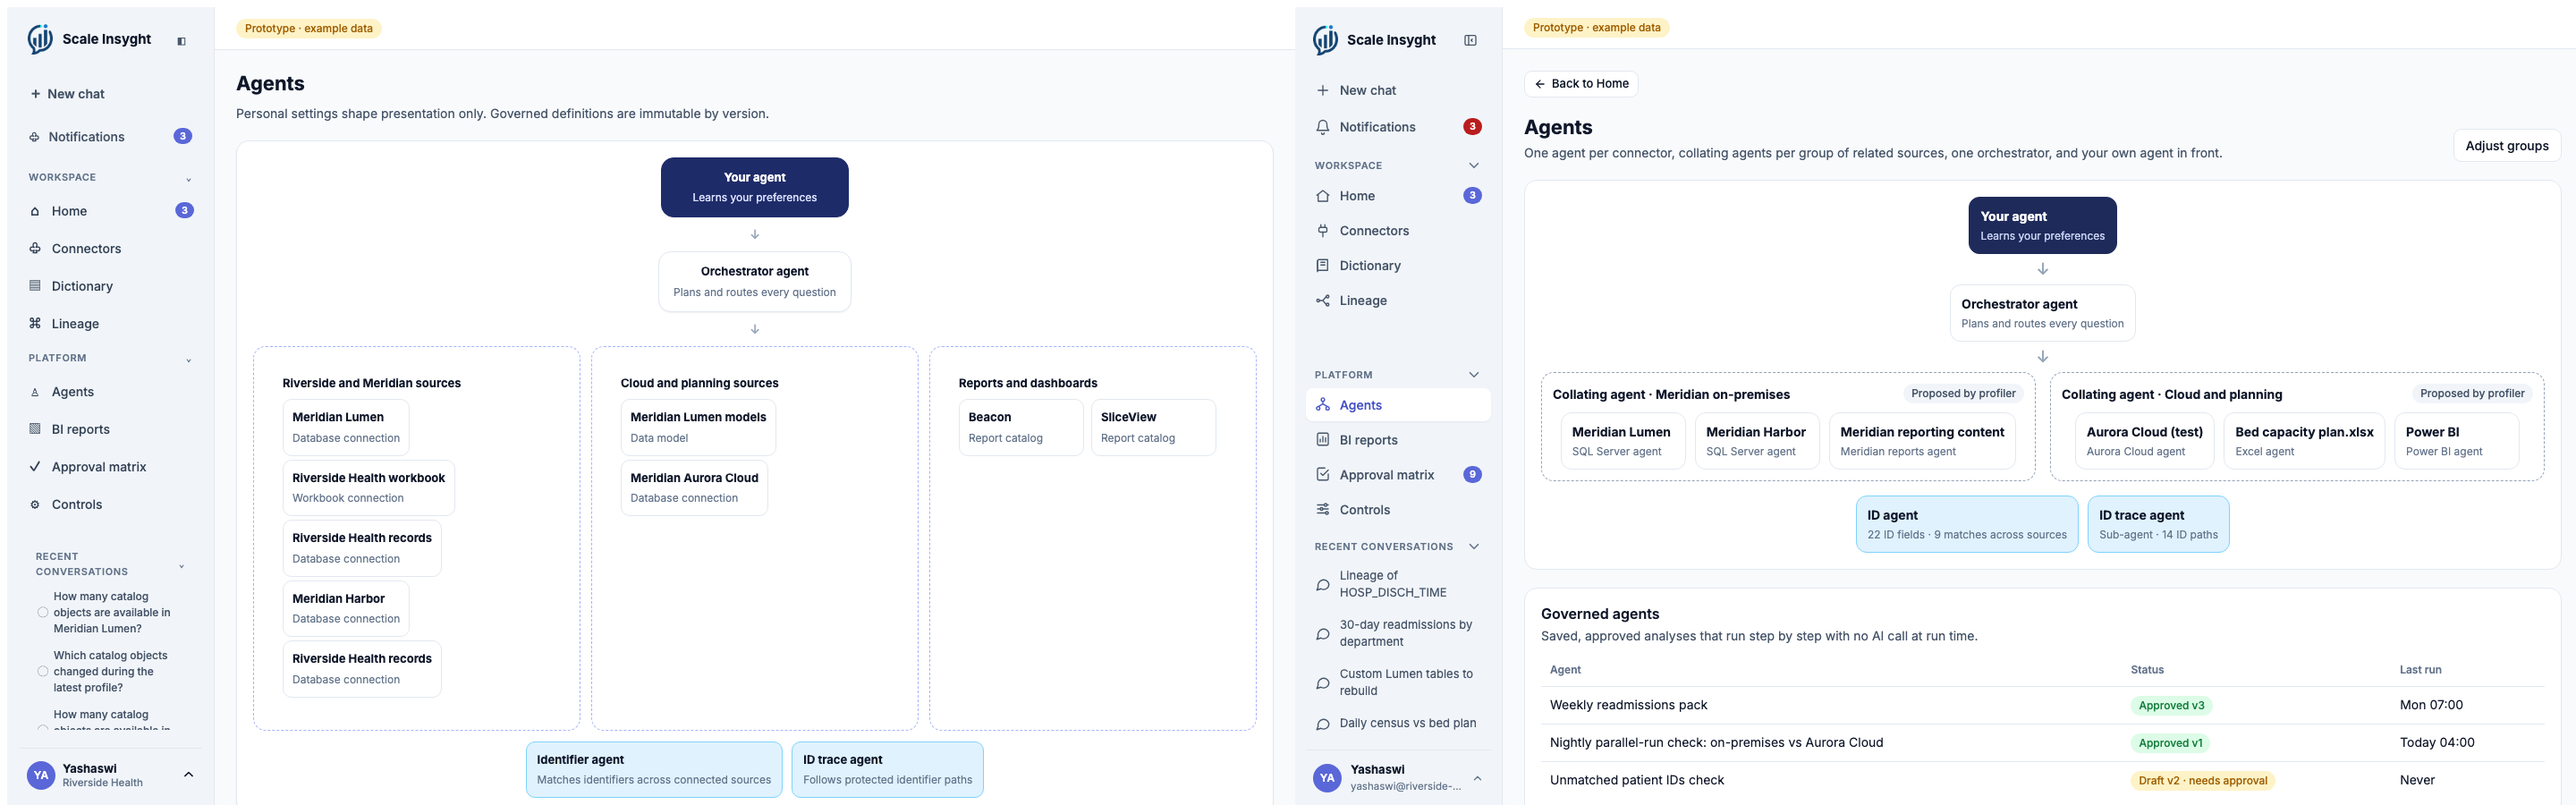
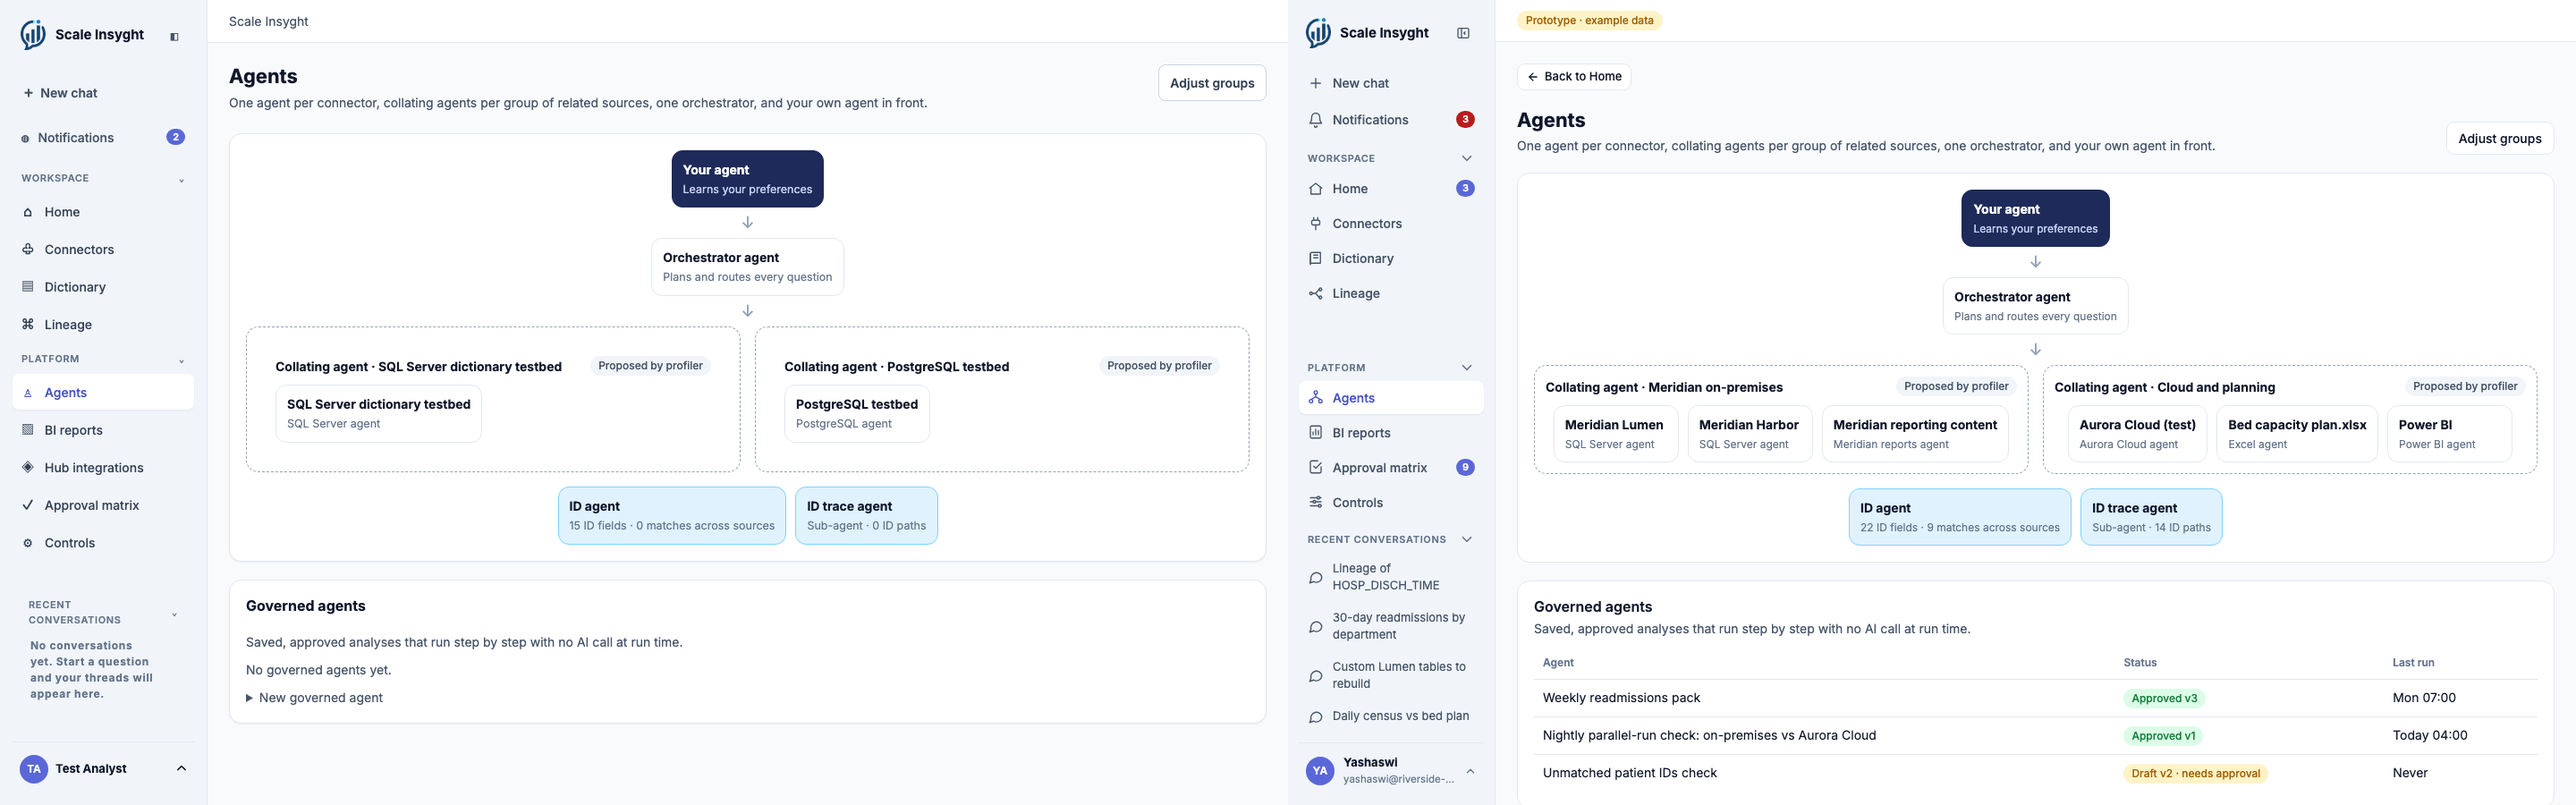
Agents: S13 walkthrough on the testbeds, screen pair with the prototype; phase 5 E2E follows My agent's empty state

diff --git a/tests/e2e/real-product-s13-agents.spec.ts b/tests/e2e/real-product-s13-agents.spec.ts
@@ -1,0 +1,97 @@
+import { test, expect, type Page } from '@playwright/test';
+import { randomUUID } from 'node:crypto';
+import { mkdirSync } from 'node:fs';
+import { pathToFileURL } from 'node:url';
+import { resolve } from 'node:path';
+import 'dotenv/config';
+import { Pool } from 'pg';
+import { withTenant } from '@scaleinsyght/db';
+import { createTenant } from '../../scripts/tenant-create.js';
+import { activateAndWait } from '../support/e2e-profile.js';
+
+// S13: the Agents screen on real connectors (CLAUDE.md 10.2, prototype V.agents). Every agent shown comes from the
+// registry: a connector agent per active connection, one collating agent per source group (decision 20: one group per
+// source until a person adjusts them), the ID agent's counts from the graph, and the governed agents table.
+const platformUrl = new URL(process.env.DATABASE_URL_MIGRATE ?? '');
+platformUrl.pathname = `/${process.env.SI_TEST_DATABASE ?? 'si_test'}`;
+const pool = new Pool({ connectionString: platformUrl.toString() });
+const postgres = new URL(process.env.DATABASE_URL_TESTBED ?? '');
+if (!postgres.hostname || !process.env.SQLSERVER_TESTBED_PASSWORD) throw new Error('The PostgreSQL and SQL Server testbeds are required; run pnpm testbed:up (it includes pnpm testbed:dictionary).');
+const screen = (name: string) => `docs/acceptance/s13/${name}.png`;
+
+async function connect(page: Page, data: Record<string, unknown>): Promise<string> {
+  const draft = await page.request.post('/api/connections', { data }); expect(draft.status()).toBe(201);
+  const { connectionId } = await draft.json() as { connectionId: string };
+  expect((await page.request.post(`/api/connections/${connectionId}/test`)).ok()).toBeTruthy();
+  await activateAndWait(page, connectionId);
+  return connectionId;
+}
+const tiers = (page: Page) => page.getByRole('article', { name: 'How the agents are arranged' });
+const group = (page: Page, members: string) => tiers(page).getByRole('region', { name: `Collating agent for ${members}` });
+
+test.afterAll(async () => { await pool.end(); });
+
+test('s13_agents_screen_shows_the_registry_and_adjusting_groups_makes_a_new_group_version', async ({ page, browser }) => {
+  test.setTimeout(300_000);
+  const tenantId = `agents-${randomUUID()}`; const email = `analyst@${tenantId}.test.invalid`; const password = 'agents-walkthrough-password-2026';
+  await createTenant(pool, { tenantId, name: 'Agents workspace', displayName: 'Test Analyst', email, password });
+  await page.setViewportSize({ width: 1440, height: 900 });
+  await page.goto(`/login?tenant=${tenantId}`); await page.getByLabel('Email').fill(email); await page.getByLabel('Password').fill(password); await page.getByRole('button', { name: 'Sign in', exact: true }).click();
+  await expect(page.getByRole('heading', { name: /^Good (morning|afternoon|evening), Test Analyst$/ })).toBeVisible();
+
+  // Before any connector: the fixed tiers, no connector agents and no governed agents.
+  await page.getByRole('link', { name: /Agents/ }).click();
+  await expect(page.getByRole('heading', { name: 'Agents', exact: true })).toBeVisible();
+  await expect(tiers(page)).toContainText('Your agent');
+  await expect(tiers(page)).toContainText('Orchestrator agent');
+  await expect(tiers(page)).toContainText('No connector agents yet.');
+  await expect(page.getByText('No governed agents yet.')).toBeVisible();
+  await expect(page.getByRole('button', { name: 'Adjust groups' })).toHaveCount(0);
+
+  const pg = await connect(page, { connectorType: 'postgres', displayName: 'PostgreSQL testbed', credential: { host: postgres.hostname, port: Number(postgres.port || 5432), database: postgres.pathname.slice(1), username: decodeURIComponent(postgres.username), password: decodeURIComponent(postgres.password), sslMode: 'disable' } });
+  const sql = await connect(page, { connectorType: 'sql_server', displayName: 'SQL Server dictionary testbed', credential: { host: process.env.SQLSERVER_TESTBED_HOST, port: Number(process.env.SQLSERVER_TESTBED_PORT), database: 'si_testbed_dictionary', username: process.env.SQLSERVER_TESTBED_USERNAME, password: process.env.SQLSERVER_TESTBED_PASSWORD, trustServerCertificate: true } });
+
+  // One collating agent per source (decision 20), each holding that connection's connector agent.
+  const registry = await withTenant(pool, tenantId, async (db) => ({
+    agents: (await db.query<{ connection_id: string; agent_type: string; status: string }>(`SELECT c.connection_id,a.agent_type,a.status FROM registry.connections c JOIN registry.agents a ON a.tenant_id=c.tenant_id AND a.agent_id=c.connector_agent_id WHERE c.tenant_id=$1`, [tenantId])).rows,
+    ids: (await db.query<{ fields: number; matches: number; paths: number }>(`SELECT (SELECT count(*) FROM graph.id_fields WHERE tenant_id=$1 AND active)::int AS fields,
+        (SELECT count(*) FROM graph.relationships WHERE tenant_id=$1 AND relationship_type='SAME_AS')::int AS matches,
+        (SELECT count(DISTINCT path_id) FROM graph.id_path_steps WHERE tenant_id=$1)::int AS paths`, [tenantId])).rows[0]!,
+  }));
+  expect(registry.agents.map((agent) => agent.status)).toEqual(['active', 'active']);
+  await page.reload();
+  await expect(group(page, 'PostgreSQL testbed')).toContainText('PostgreSQL agent');
+  await expect(group(page, 'SQL Server dictionary testbed')).toContainText('SQL Server agent');
+  for (const members of ['PostgreSQL testbed', 'SQL Server dictionary testbed']) await expect(group(page, members)).toContainText('Proposed by profiler');
+  // The ID agent's counts are read from the graph, not illustrative.
+  const plural = (count: number, one: string, many: string) => `${count.toLocaleString('en-US')} ${count === 1 ? one : many}`;
+  await expect(tiers(page)).toContainText(`${plural(registry.ids.fields, 'ID field', 'ID fields')} · ${plural(registry.ids.matches, 'match', 'matches')} across sources`);
+  await expect(tiers(page)).toContainText(`Sub-agent · ${plural(registry.ids.paths, 'ID path', 'ID paths')}`);
+  await page.screenshot({ path: screen('agents') });
+
+  // Adjust groups: move the SQL Server agent into the PostgreSQL group. That is a new version of the group; plans pin versions.
+  const before = await withTenant(pool, tenantId, (db) => db.query<{ source_group_id: string; version: number }>(
+    `SELECT g.source_group_id,g.version FROM registry.source_groups g JOIN registry.source_group_members m ON m.tenant_id=g.tenant_id AND m.source_group_id=g.source_group_id AND m.group_version=g.version AND m.valid_to IS NULL WHERE g.tenant_id=$1 AND m.connection_id=$2`, [tenantId, pg]));
+  await page.getByRole('button', { name: 'Adjust groups' }).click();
+  await page.getByLabel('Move SQL Server dictionary testbed to').selectOption({ label: 'PostgreSQL testbed' });
+  await expect(page.getByRole('status')).toHaveText('Group updated. New plans use the new group version.');
+  await expect(group(page, 'PostgreSQL testbed and SQL Server dictionary testbed')).toContainText('SQL Server agent');
+  await expect(tiers(page).getByRole('region')).toHaveCount(1);
+  const after = await withTenant(pool, tenantId, (db) => db.query<{ connection_id: string; source_group_id: string; version: number }>(
+    `SELECT m.connection_id,g.source_group_id,g.version FROM registry.source_groups g JOIN registry.source_group_members m ON m.tenant_id=g.tenant_id AND m.source_group_id=g.source_group_id AND m.group_version=g.version AND m.valid_to IS NULL WHERE g.tenant_id=$1 ORDER BY m.connection_id`, [tenantId]));
+  expect(new Set(after.rows.map((row) => row.source_group_id))).toEqual(new Set([before.rows[0]!.source_group_id]));
+  expect(after.rows.map((row) => row.connection_id).sort()).toEqual([pg, sql].sort());
+  expect(after.rows[0]!.version).toBeGreaterThan(before.rows[0]!.version);
+  await page.screenshot({ path: screen('agents-adjusted') });
+
+  // The prototype's Agents screen, captured for the UI report pair.
+  const prototype = await browser.newPage({ viewport: { width: 1440, height: 900 } });
+  try {
+    await prototype.goto(pathToFileURL(resolve('docs/prototype/index.html')).href);
+    await prototype.getByRole('button', { name: 'Sign in', exact: true }).click();
+    await prototype.evaluate('go("agents")');
+    await expect(prototype.getByRole('heading', { name: 'Governed agents' })).toBeVisible();
+    mkdirSync('docs/acceptance/s13/prototype', { recursive: true });
+    await prototype.screenshot({ path: 'docs/acceptance/s13/prototype/agents.png' });
+  } finally { await prototype.close(); }
+});

diff --git a/scripts/compose-ui-screens.ts b/scripts/compose-ui-screens.ts
@@ -14,6 +14,7 @@ const pairs: Pair[] = [
   { out: 'dictionary-encrypted', app: 'docs/acceptance/s9/encrypted.png', prototype: 'docs/acceptance/s9/prototype/encrypted.png' },
   { out: 'dictionary-search', app: 'docs/acceptance/s9/search.png', prototype: 'docs/acceptance/s9/prototype/search.png' },
   { out: 'dictionary-export-notice', app: 'docs/acceptance/s9/export-notice.png', prototype: 'docs/acceptance/s9/prototype/landing.png' },
+  { out: 'agents', app: 'docs/acceptance/s13/agents.png', prototype: 'docs/acceptance/s13/prototype/agents.png' },
   { out: 'dictionary-function-returns', app: 'docs/acceptance/s9/function-returns.png', prototype: 'docs/acceptance/s9/prototype/proc.png' },
   { out: 'dictionary-approve-all', app: 'docs/acceptance/s9/approve-all.png', prototype: 'docs/acceptance/s9/prototype/table.png' },
   { out: 'dictionary-excel', app: 'docs/acceptance/s9/excel.png', prototype: 'docs/acceptance/s9/prototype/table.png' },

diff --git a/tests/e2e/phase5.spec.ts b/tests/e2e/phase5.spec.ts
@@ -32,8 +32,8 @@ test('empty_new_tenant_has_no_canned_answer_or_saved_questions',async({page})=>{
  await expect(page.getByRole('heading',{name:'Connect a source to get started'})).toBeVisible();
  await expect(page.getByRole('button',{name:'Send question'})).toBeDisabled();
  // Saved questions live on My agent, as in the prototype.
- await page.goto('/my-agent');await expect(page.getByRole('heading',{name:'Saved questions'})).toBeVisible();
- await expect(page.getByText('No saved questions yet.')).toBeVisible();
+ await page.goto('/my-agent');await expect(page.getByRole('heading',{name:'Saved questions',exact:true})).toBeVisible();
+ await expect(page.getByRole('heading',{name:'No saved questions yet',exact:true})).toBeVisible();
 });
 
 test('c5_governed_report_exports_evidence_and_has_an_owner_scoped_daily_schedule',async({page})=>{

diff --git a/docs/ui/ui-report.md b/docs/ui/ui-report.md
@@ -40,7 +40,7 @@ The application renders live seeded API data and real interactions; the prototyp
 | [Tableau add flow](screens/tableau-add-flow.png) | The app adds a Tableau workbook in the same add modal with a warehouse choice and a `.twb` upload; the prototype opens its type catalog. The app explains that custom SQL and formulas are read for lineage and not stored. |
 | [BI reports with Tableau](screens/bi-reports-tableau.png) | Known difference, not yet fixed: the prototype's Reports screen is a table (Report, Tool, Built on, Lineage, Open ↗); the app's BI reports view is still a list with the tool and linked-flow count. Worksheets from an uploaded workbook say "From an uploaded file" because there is no server to open. Rebuilding this page to the prototype table is left for the prototype-fidelity pass. |
 | [Reports](screens/reports.png) | App report scheduling and governed-report creation use the existing report APIs; the prototype is a six-row imported report catalog. Forms and table rows follow the same card/table visual language. |
-| [Agents](screens/agents.png) | The app presents the user's agent, orchestrator, source groups, and identifier agents, matching the prototype hierarchy. The exact number and composition of groups come from the seeded connections. |
+| [Agents](screens/agents.png) | Captured by `tests/e2e/real-product-s13-agents.spec.ts` on the PostgreSQL and SQL Server testbeds; composed by `scripts/compose-ui-screens.ts`. Same heading, copy and Adjust groups button; same tiers (Your agent, Orchestrator agent, a collating agent per source group with "Proposed by profiler", connector agents named by source and type, ID agent and ID trace agent) and Governed agents table. Differences: groups and counts are the tenant's real ones (one group per source until adjusted, decision 20), so this capture has two single-source groups and no governed agents yet; Adjust groups moves an agent with a "Move to" menu instead of the prototype's drag hint; the table adds a Run button for the approved version and a "New governed agent" form; saved questions live on My agent, as in the prototype. |
 | [My agent](screens/my-agent.png) | Both use preference and saved-question cards. App values are editable live preferences and actual saved questions; prototype terms and defaults are static examples. |
 | [Hub integrations](screens/hub-integrations.png) | App-only integration, certified-measure, and handoff cards use the same page, card, and button system. The prototype has no Hub screen, so Agents is the comparison target. |
 | [Approval matrix](screens/approval-matrix.png) | Both foreground the last night's run and reviewable findings. Finding counts, descriptions, and approval actions are taken from seeded demo records rather than prototype-only static rows. |

diff --git a/docs/gap-audit.md b/docs/gap-audit.md
@@ -24,7 +24,7 @@
 | Saved questions, reports, exports and evidence packs | Real | S7, PR #31: `tests/e2e/real-product-s7-saved-exports.spec.ts` saves a question and reuses it, approves and schedules a governed report, and checks the evidence pack, Markdown and Word dictionary exports against truth (its original question restored on PR #41). |
 | Tableau workbooks | Real | `tests/e2e/real-product-s8-tableau.spec.ts` (3 consecutive passes) adds `testbed/tableau/riverside-operations.twb` through Add connector, refuses a `.twbx`, checks the Tableau card, every worksheet in BI reports and the data sources in Lineage, and traces each worksheet to the operational columns in `testbed/lineage-truth.json`. Reader and graph import: decision 50, `tests/contracts/c6_tableau_workbook_lineage.test.ts`, `tests/testbed/c6_testbed_tableau_lineage.test.ts`. Not yet read: packaged `.twbx` files and Tableau Server or Cloud. |
 | Power BI templates | Missing | No real export exists in `testbed/bi/real/`; stays Missing until one is supplied and parsed. |
-| Agents, My agent and Usage screens | Missing | Connector activation creates a real agent and Usage counts from the event log; the three screens are not yet matched to the prototype (one PR each after the Home rework). |
+| Agents, My agent and Usage screens | Missing | Agents is matched to the prototype from the registry (tiers, a collating agent per source group with Adjust groups making a new group version, ID agent counts from the graph, governed agents): `tests/e2e/real-product-s13-agents.spec.ts`. My agent and Usage are not yet matched (one PR each). |
 | Controls screen | Real | PR #42 (decision 55): `tests/e2e/real-product-s10-controls.spec.ts` sends grouped scope, an override, a name rule and a column rule for approval, then shows a saved question on the excluded table failing with a plain explanation and the refresh recording it out of scope. |
 | Hub integrations | Real | Disconnected empty state is the approved behaviour; `tests/unit/no-runtime-fixtures.test.ts` checks no fixture adapter or sample metric is reachable. |
 | Empty states for Profile, Dictionary and ER | Real | `tests/e2e/real-product-s1.spec.ts` starts from an empty tenant; each page explains itself and links to Add connector. |
